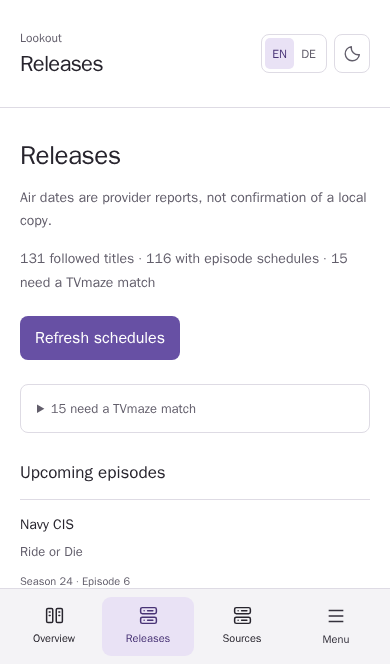
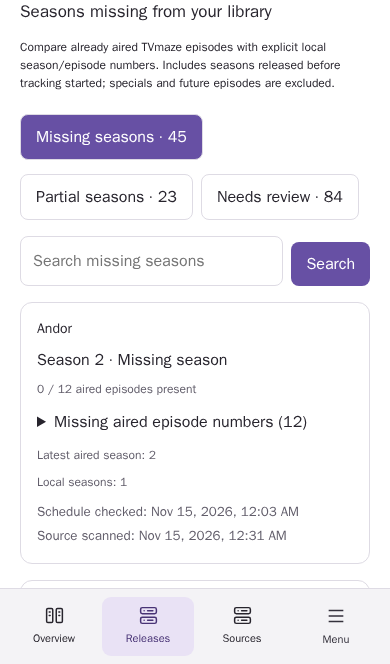
docs: explain missing-season comparison and refresh phone screenshot

diff --git a/docs/superpowers/plans/2026-11-15-season-gaps.md b/docs/superpowers/plans/2026-11-15-season-gaps.md
@@ -12,15 +12,15 @@
 Keep NAS read-only and Telegram unchanged. Include historical aired seasons; exclude future/unknown dates and specials. Deduplicate copies/multi-episode numbering. Unknown numbering, metadata mismatch, source failures and anime ordering must not produce definitive gaps. Provider identity changes must exclude old schedules. Search, filter and pagination totals must match results; mobile must fit without horizontal scrolling.
 
 ### 1. Comparison and persistence boundary
-- [ ] Add failing controlled-time comparison and isolated-PostgreSQL tests.
-- [ ] Implement internal/releases/gaps.go and internal/store/season_gaps.go with exact numbered-set comparison and review reasons.
-- [ ] Run domain and real database tests; commit.
+- [x] Add failing controlled-time comparison and isolated-PostgreSQL tests.
+- [x] Implement internal/releases/gaps.go and internal/store/season_gaps.go with exact numbered-set comparison and review reasons.
+- [x] Run domain and real database tests; commit.
 
 ### 2. API and interface
-- [ ] Add failing API and desktop/mobile browser tests for missing, partial and uncertain results.
-- [ ] Implement paginated /api/v1/releases/gaps?kind=missing|partial|review with q/category/limit/offset; add bilingual component above existing Releases sections.
-- [ ] Verify filters, empty/error states, detail links and mobile layout; commit.
+- [x] Add failing API and desktop/mobile browser tests for missing, partial and uncertain results.
+- [x] Implement paginated /api/v1/releases/gaps?kind=missing|partial|review with q/category/limit/offset; add bilingual component above existing Releases sections.
+- [x] Verify filters, empty/error states, detail links and mobile layout; commit.
 
 ### 3. Deployment and review
-- [ ] Full make check and fresh focused reviewer; fix important findings with regressions.
-- [ ] Deploy tested image to existing LAN service, audit API against local read-only database, refresh screenshots if changed and update docs. Keep local commits; no push.
+- [x] Full make check and fresh focused reviewer; fix important findings with regressions.
+- [x] Deploy tested image to existing LAN service, audit API against local read-only database, refresh screenshots if changed and update docs. Keep local commits; no push.

diff --git a/docs/library-verification.md b/docs/library-verification.md
@@ -57,3 +57,30 @@ Only Lookout's own database/configuration and local repository were written.
 No remote repository, push or release was created. README screenshots show the
 actual LAN library and mobile release view; secrets and raw inventory evidence
 remain in ignored local files.
+
+## Missing-season comparison follow-up — 2026-11-15
+
+The Releases view now compares historical and newly aired numbered episodes with
+observed local season/episode sets. A live read-only query and complete API page
+walk agreed on 45 missing seasons, 23 partial seasons and 84 titles needing review.
+Unknown numbering, anime ordering, stale/unavailable sources and unmatched metadata
+remain explicit review items. ZIP/loose duplicate copies do not inflate episode
+coverage; old provider identities do not contribute current schedules.
+
+The full check passed with 20 desktop/mobile cases and isolated database/domain/API
+regressions. Fresh review found no Critical/Important issue and one pagination edge
+case, reproduced with a controlled browser clock and corrected. Visual screenshot
+inspection subsequently exposed inherited flex styling on cards; geometric browser
+regressions reproduce it and require full-width titles above season details. The
+card and review-list layouts now explicitly override that inherited styling.
+
+No new dependency, migration, provider request, source scan or Telegram action is
+introduced by computing gaps. The existing inventory and release workers retain
+their schedules. Telegram delivery remains disabled, and this comparison generates
+no historical notifications. See [library setup](library.md) for interpretation.
+
+After the layout correction, Svelte/TypeScript, production build, all 20 browser
+cases and lifecycle checks passed again. The same 20 cases passed against the
+healthy LAN service, and the refreshed phone screenshot was visually inspected.
+The running image digest matched the tested image; all API comparison counts
+remained 45/23/84 after deployment.

diff --git a/docs/library.md b/docs/library.md
@@ -105,6 +105,29 @@ to seed follows for imported episodic titles. Schedule caches refresh every six
 hours, with due dates checked locally each minute. Releases shows unmatched follows
 for manual review rather than implying schedule coverage.
 
+### Missing and partial seasons
+
+Open Releases → **Seasons missing from your library**. Missing seasons have no
+recognized local copies of their aired numbered episodes. Partial seasons have
+some, with a list of the aired episode numbers still absent. Each row shows the
+latest aired season, recognized local seasons, schedule-check time and source-scan
+time. Search filters all three tabs; each has its own paginated results.
+
+This comparison includes historical seasons and works independently of the quiet
+notification baseline. It compares distinct season/episode pairs, so duplicate
+copies do not inflate coverage and explicitly numbered ZIP members count. Counts
+refer to aired episodes, including currently running seasons, not a guarantee that
+a whole season has finished airing. Specials, unknown dates and future episodes
+are excluded.
+
+**Needs review** contains titles with missing/current-identity schedule data,
+conflicting metadata, unrecognized local numbering, unconfirmed files, a source
+scan older than three hours, or a source not in its ready state. Anime season
+ordering always requires review because local/TVDB and TVmaze season structures
+can differ. Those titles do not produce definitive missing/partial claims.
+Refresh schedules or rescan the source as appropriate; changing data is reflected
+by the comparison without generating historical Telegram alerts.
+
 The first successful fetch establishes a silent baseline: old episodes generate no
 alerts. A later reported air time creates a deduplicated episode event; episode 1
 of a regular season also creates a season event, coalesced into one Telegram message.

diff --git a/docs/api.md b/docs/api.md
@@ -24,6 +24,7 @@ work returns 202; a busy/disabled worker returns 409. Errors have the form
 | `/api/v1/titles/{id}/metadata` | POST | Manual identity: `{"provider":"tvmaze","id":"..."}`. |
 | `/api/v1/titles/{id}/artwork` | GET, HEAD | Bounded local image proxy/cache, ETag support. |
 | `/api/v1/releases` | GET, HEAD | `{data,progress}`: follows, unmatched titles, upcoming episodes and recent events; `limit`, `offset`. |
+| `/api/v1/releases/gaps` | GET, HEAD | `{items,total,missing,partial,review,limit,offset}`; `kind` = `missing` (default), `partial`, `review`; `q`, `category`, `limit`, `offset`. |
 | `/api/v1/releases/refresh` | POST | Queue schedule refresh; `{}`. |
 | `/api/v1/titles/{id}/follow` | GET, HEAD | Follow and baseline state. |
 | `/api/v1/titles/{id}/follow` | POST | `{"enabled":true}` or false. |
@@ -44,3 +45,11 @@ Unknown API routes return JSON 404 instead of SPA HTML. Unsupported methods retu
 405 with Allow; malformed/oversized requests return 400/413; public metadata calls
 return 403 when permission is disabled. JSON uses no-store; artwork uses private
 revalidation. There is no Telegram send/test endpoint and no remote-media write API.
+
+Season-gap items contain `title_id`, `title`, `category`, `kind`, `season`,
+`latest_aired_season`, `local_seasons`, `aired`, `present`, `missing_episodes`,
+`reasons`, `checked_at`, `inventory_at`. Review items have no definitive season
+claim (`season`, `aired`, `present` are zero); `reasons` explains uncertainty.
+Counts `missing`/`partial` refer to seasons and `review` to titles for the current
+search/category, before kind selection and pagination. Comparisons read one
+consistent database snapshot and never create events or notifications.

diff --git a/README.md b/README.md
@@ -8,7 +8,9 @@ their existing folders; individual films appear as separate cards. ZIP-contained
 videos appear as archive members without extraction.
 
 Follow series/anime for upcoming episodes and provider-reported season premieres.
-The first successful schedule fetch establishes a silent baseline. Optional Telegram
+See missing and partial aired seasons compared with your local inventory, with
+uncertain numbering separated for review. The first successful schedule fetch
+establishes a silent baseline. Optional Telegram
 alerts apply to future releases; verifying the bot/chat sends no test message.
 Lookout does not download, play, move, rename or delete media.
 
@@ -36,7 +38,7 @@ server. Language and theme are saved separately on each device.
 
 | Desktop | Phone |
 | --- | --- |
-| ![Lookout desktop library with metadata and cover artwork](docs/screenshots/desktop.png) | ![Lookout mobile upcoming releases](docs/screenshots/mobile.png) |
+| ![Lookout desktop library with metadata and cover artwork](docs/screenshots/desktop.png) | ![Lookout mobile missing-season comparison](docs/screenshots/mobile.png) |
 
 Configure [read-only library and integrations](docs/library.md). See [deployment](docs/deployment.md), [API](docs/api.md), and
 [development and checks](docs/development.md) for more details.
